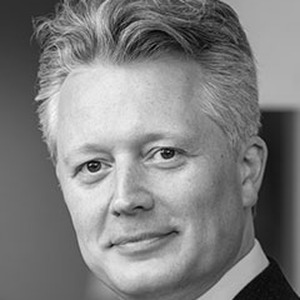
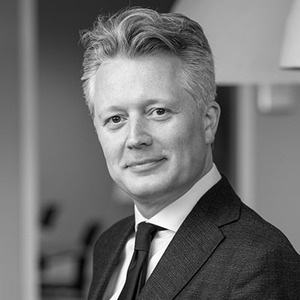
Over: ruimere portretfoto (nek/schouders); Maps-post vermeldt ook RitLog

diff --git a/blog/posts.js b/blog/posts.js
@@ -61,7 +61,7 @@ var POSTS = [
     icon: "icons/maps.png",
     title: "Waarom ik Apple Kaarten gebruik in plaats van Google Maps",
     body: `<p>Voor het opzoeken van een adres of de reistijd naar een zitting greep ik vroeger automatisch naar Google Maps. Inmiddels gebruik ik standaard <a href="https://www.apple.com/maps/">Apple Kaarten</a>, en de belangrijkste reden is privacy. Apple koppelt je zoekopdrachten niet aan een persoonlijk profiel en bewaart je precieze locatie niet één-op-één. Voor wie beroepshalve met vertrouwelijke zaken bezig is, voelt dat juister.</p>
-<p>Inhoudelijk is het verschil klein geworden: kaartmateriaal, routes en reistijden zijn ruim voldoende voor dagelijks gebruik, en de integratie met de rest van de Mac en iPhone is naadloos. Niet voor niets bouwt mijn eigen app Afstanden op dezelfde Apple-kaarttechnologie. Google Maps blijft sterker in zeer uitgebreide bedrijfsinformatie en reviews — maar voor het werk van een advocaat weegt de privacy van Apple Kaarten wat mij betreft zwaarder.</p>`
+<p>Inhoudelijk is het verschil klein geworden: kaartmateriaal, routes en reistijden zijn ruim voldoende voor dagelijks gebruik, en de integratie met de rest van de Mac en iPhone is naadloos. Niet voor niets bouwen mijn eigen apps Afstanden en RitLog op dezelfde Apple-kaarttechnologie. Google Maps blijft sterker in zeer uitgebreide bedrijfsinformatie en reviews — maar voor het werk van een advocaat weegt de privacy van Apple Kaarten wat mij betreft zwaarder.</p>`
   },
 
   {

diff --git a/over/index.html b/over/index.html
@@ -34,7 +34,7 @@
 <section class="lp"><div class="con"><div class="lc">
 
   <div style="display:flex;align-items:center;gap:1.25rem;margin-bottom:2rem">
-    <img src="jeroen.jpg" alt="Jeroen Gunning" style="width:92px;height:92px;border-radius:50%;flex-shrink:0;object-fit:cover;box-shadow:0 2px 10px rgba(0,0,0,0.15)">
+    <img src="jeroen.jpg?v=2" alt="Jeroen Gunning" style="width:92px;height:92px;border-radius:50%;flex-shrink:0;object-fit:cover;box-shadow:0 2px 10px rgba(0,0,0,0.15)">
     <div>
       <h1 style="margin-bottom:0.2rem">Jeroen Gunning</h1>
       <p style="margin:0;color:var(--t2);font-size:1rem">Advocaat in Utrecht · maker van Apps voor Advocaten</p>

diff --git a/blog/index.html b/blog/index.html
@@ -47,7 +47,7 @@
   </div>
 </div></footer>
 
-<script src="posts.js?v=9"></script>
+<script src="posts.js?v=10"></script>
 <script>
 function fmtDate(iso){
   var m=['januari','februari','maart','april','mei','juni','juli','augustus','september','oktober','november','december'];
